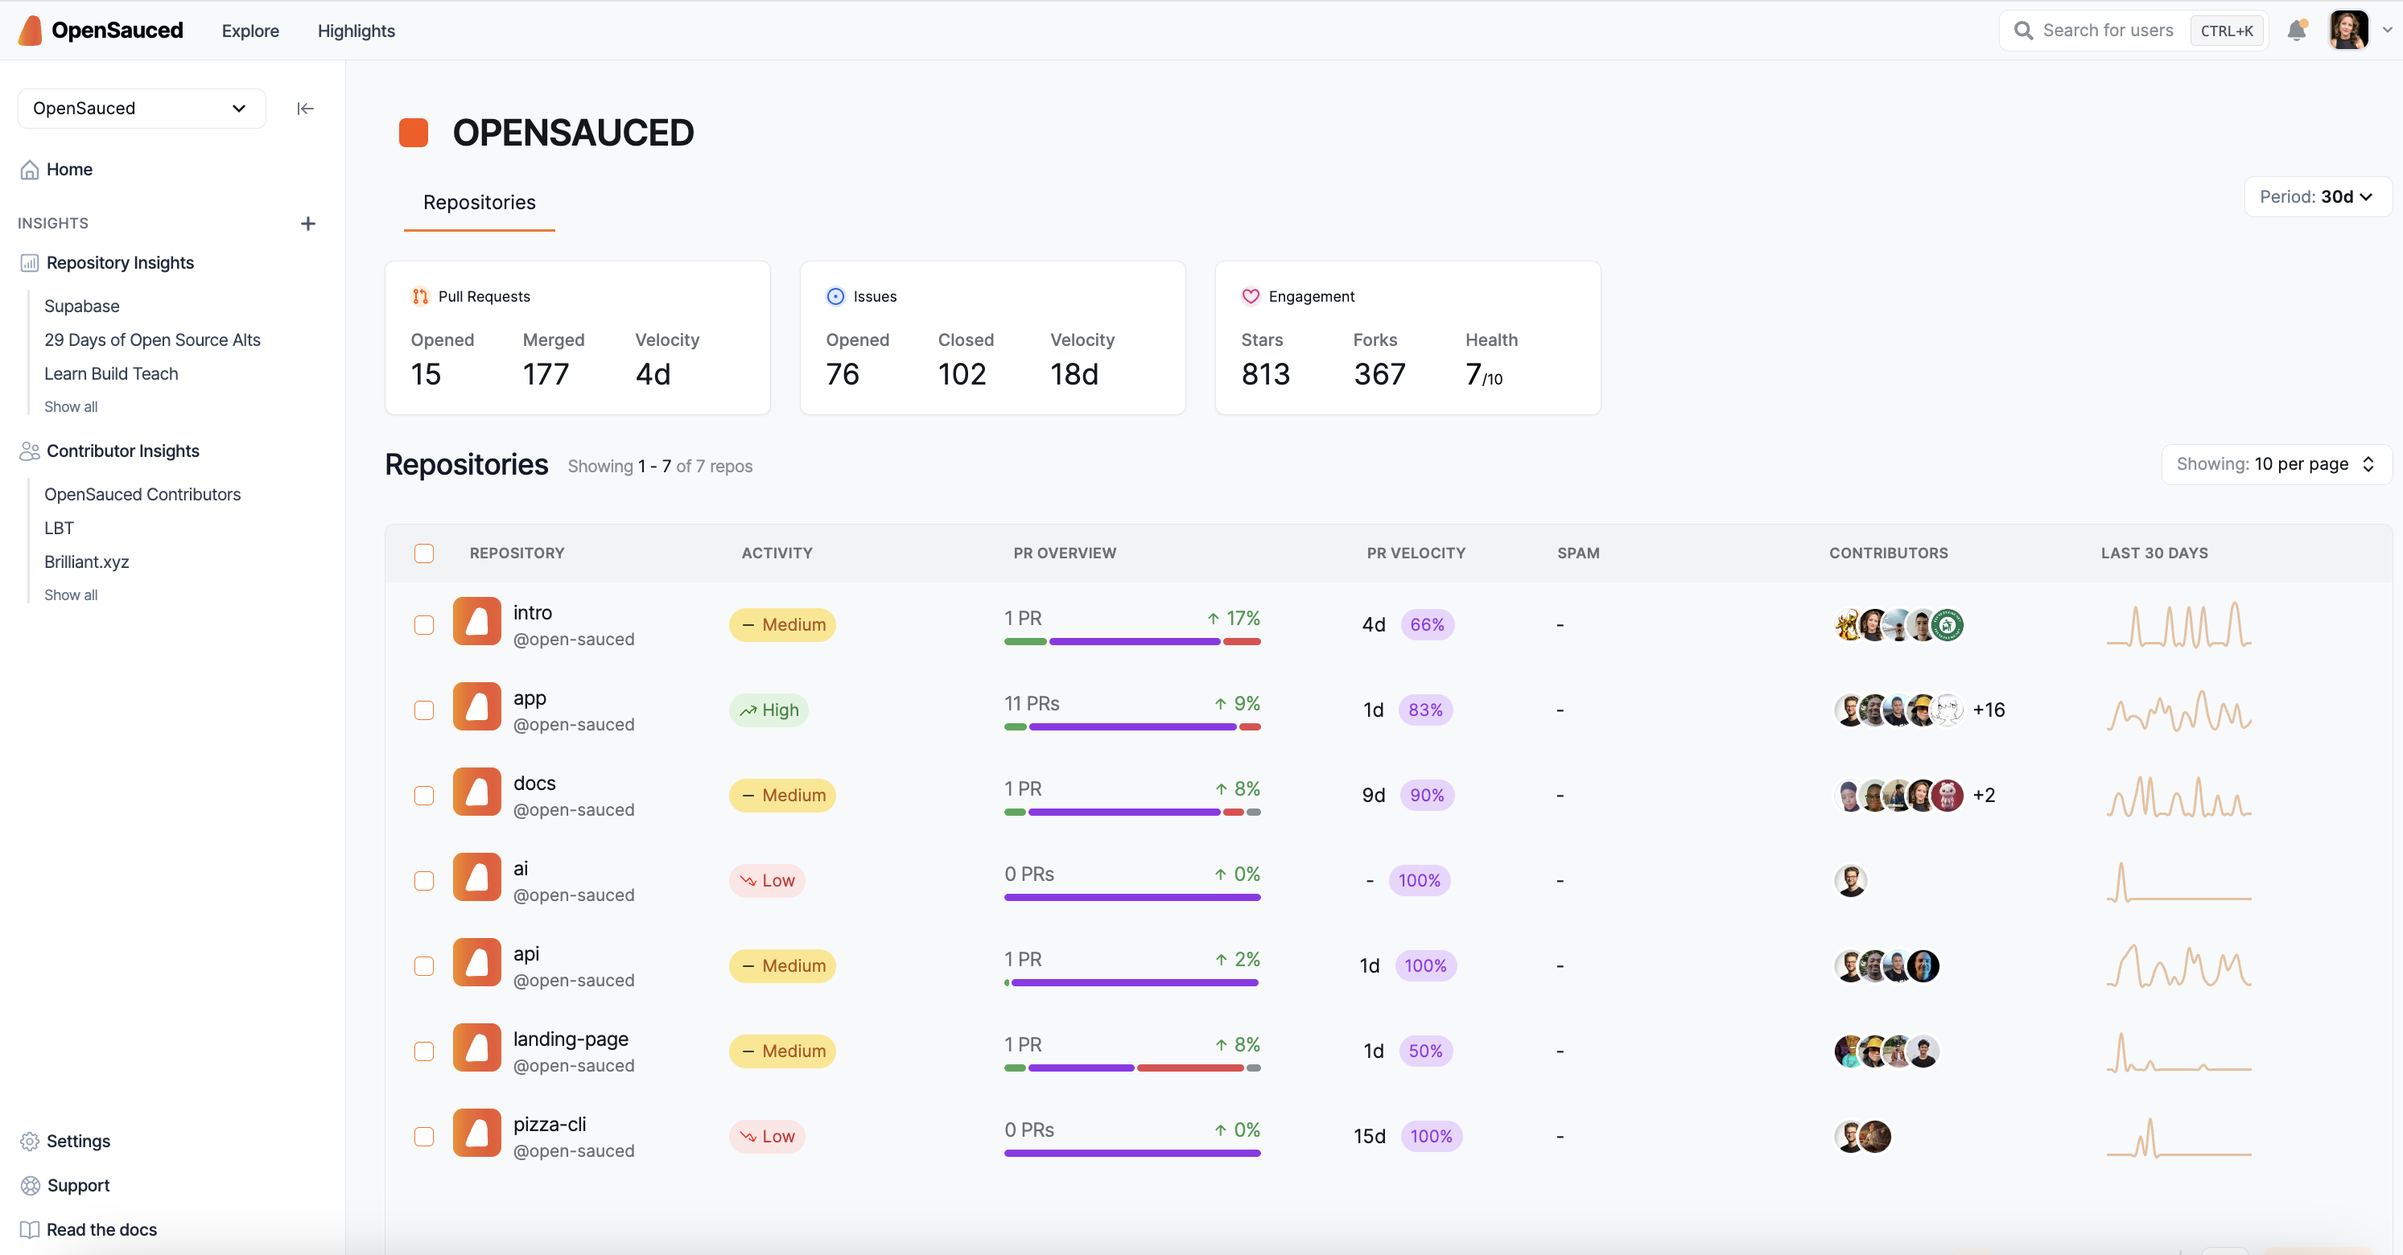
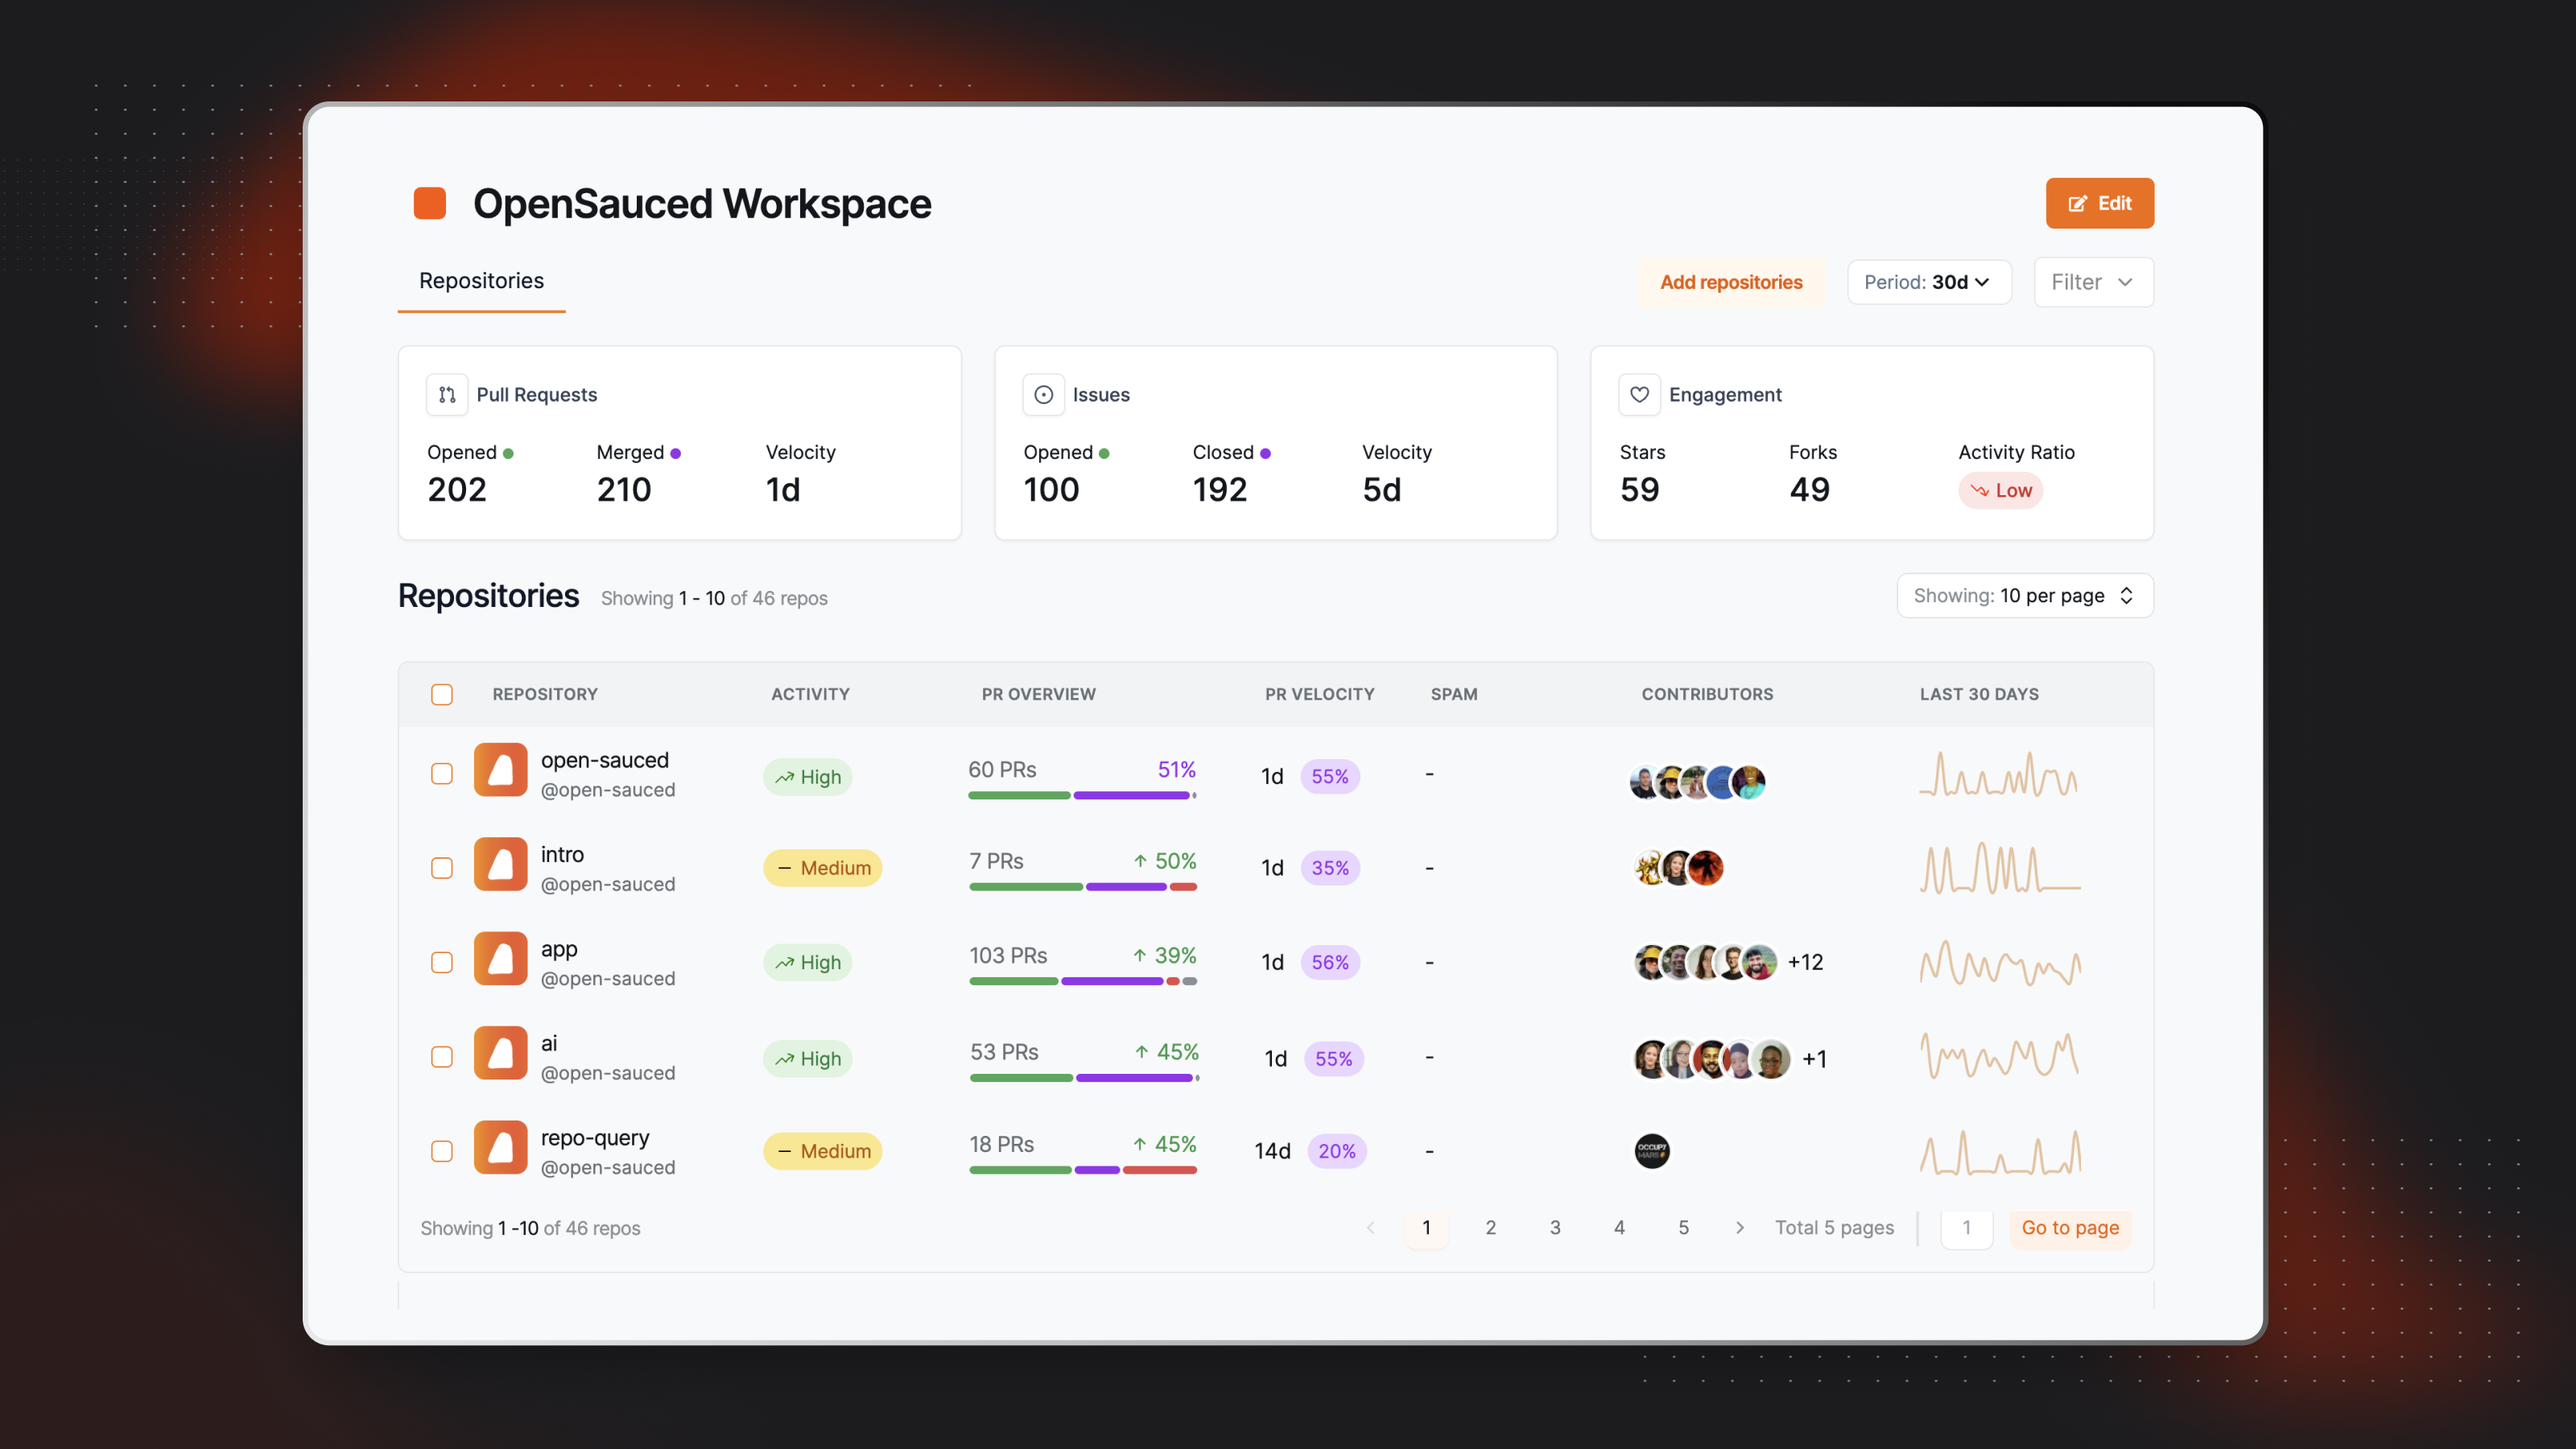
fix: update workspace images based on latest UI (#277)
* Update sidebar img

* Replace workspace dashboard

* Add back in correct image and rename incorrect

* Link to correct path

diff --git a/docs/features/workspaces.md b/docs/features/workspaces.md
@@ -18,7 +18,7 @@ In the OpenSauced app, your work unfolds within a Workspace: a virtual environme
 
 You can navigate your workspaces from the sidebar. Each workspace has its own dashboard, which includes the repositories you're tracking in the workspace.
 
-![Workspace Access](../../static/img/access-workspace.png)
+![Workspace Access](../../static/img/workspace-access.png)
 
 By default, all workspaces are public. This means that anyone with the link to your workspace can view it, including all of your Insight Pages in the workspace. If you want to make your workspace private, you can upgrade your account to a PRO plan.
 
